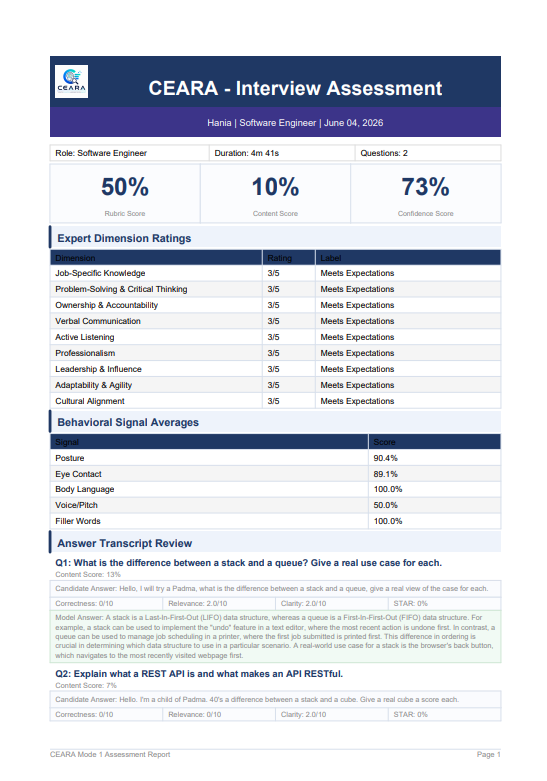
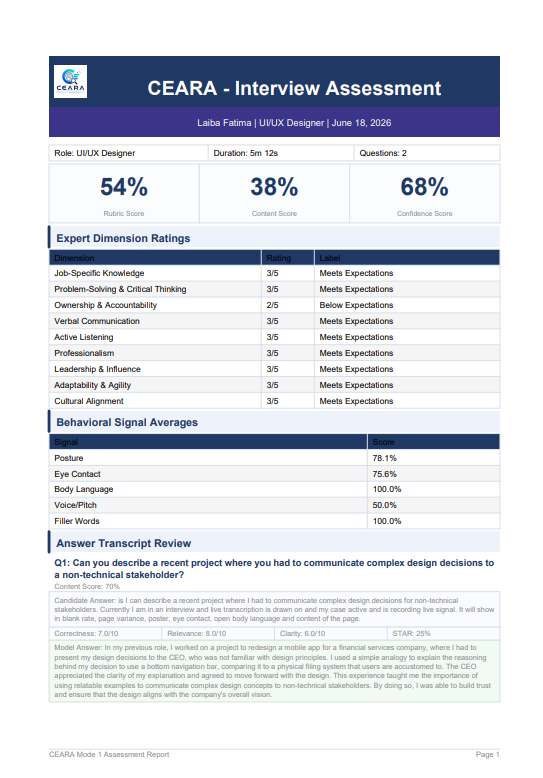
new

diff --git a/README.md b/README.md
@@ -58,7 +58,7 @@ It was designed, built, and exhibited as a 4th-semester Artificial Intelligence 
 <p align="center"><sub>Mode 2 — CEARA conducting a spoken practice interview</sub></p>
 </td>
 <td width="50%">
-<img src="assets/screenshots/exhibition-photo.jpg" alt="Exhibition day" width="100%"/>
+<img src="assets/screenshots/exhibition-photo.jpeg" alt="Exhibition day" width="100%"/>
 <p align="center"><sub>Live at the Fall 2024 AI exhibition</sub></p>
 </td>
 </tr>
